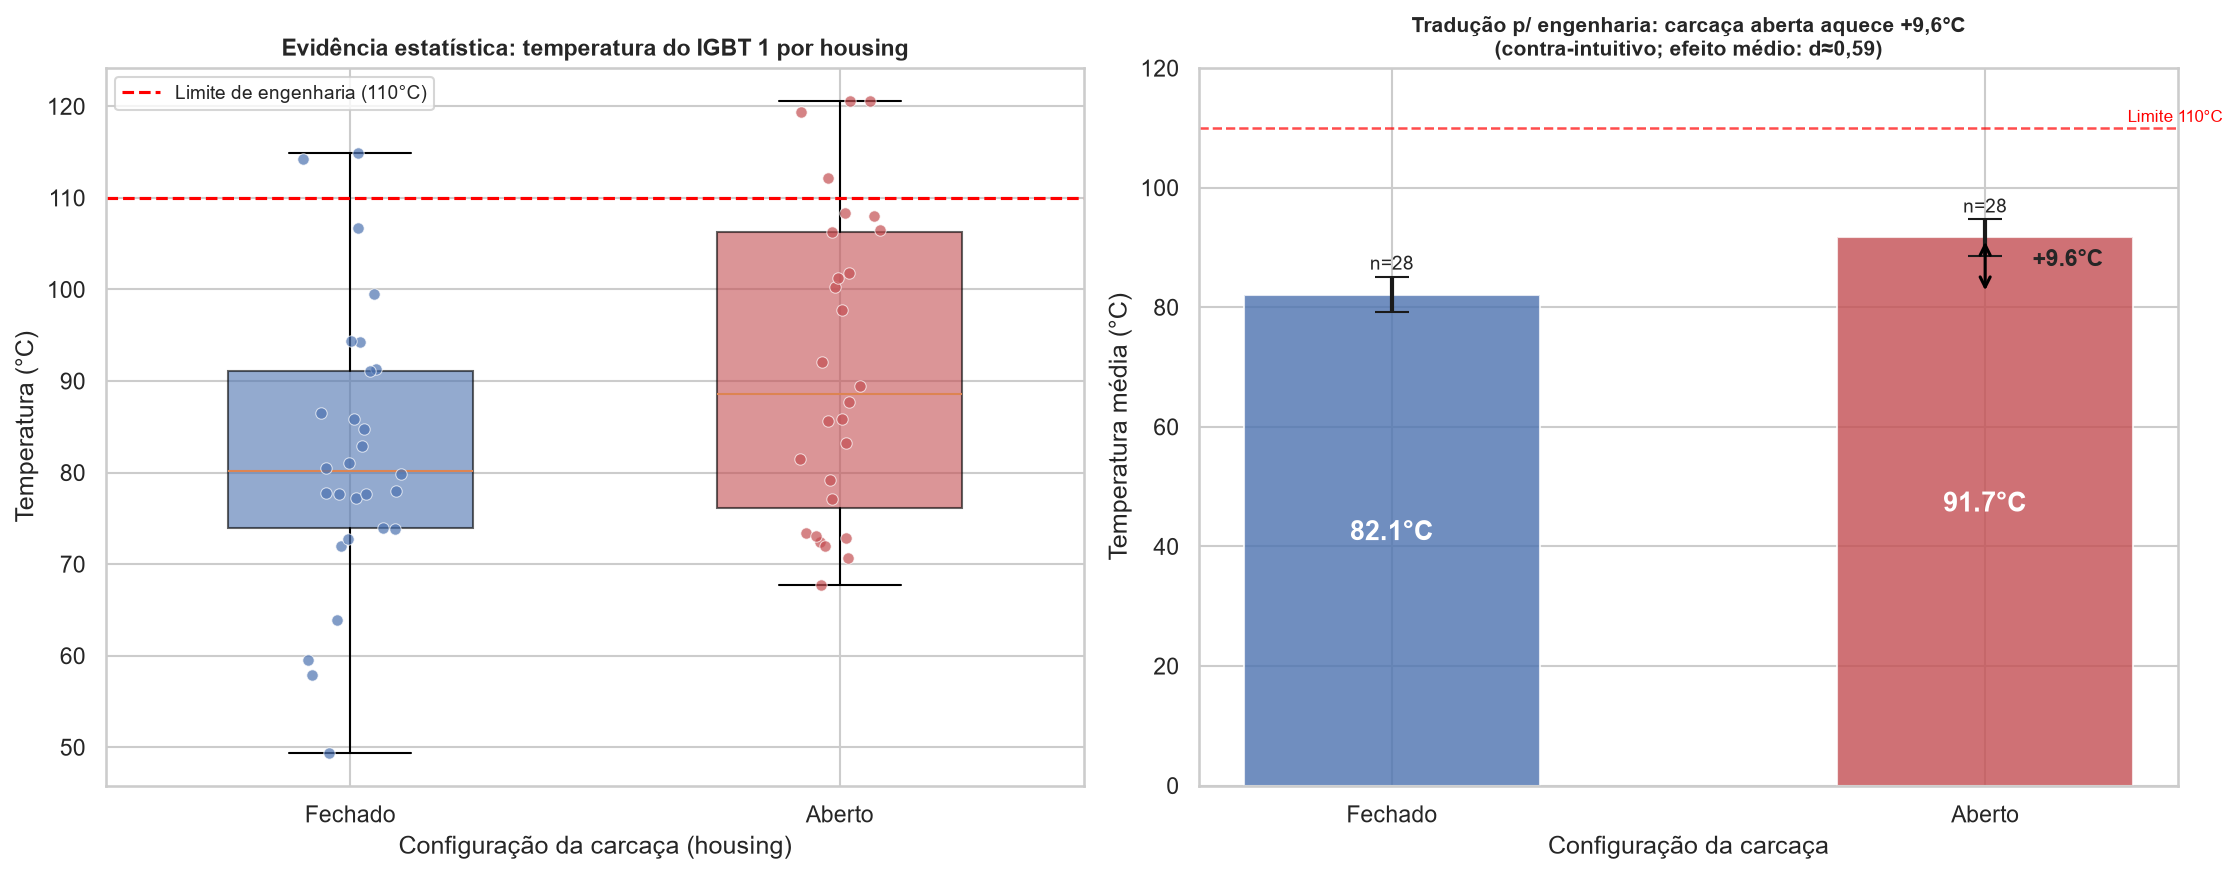
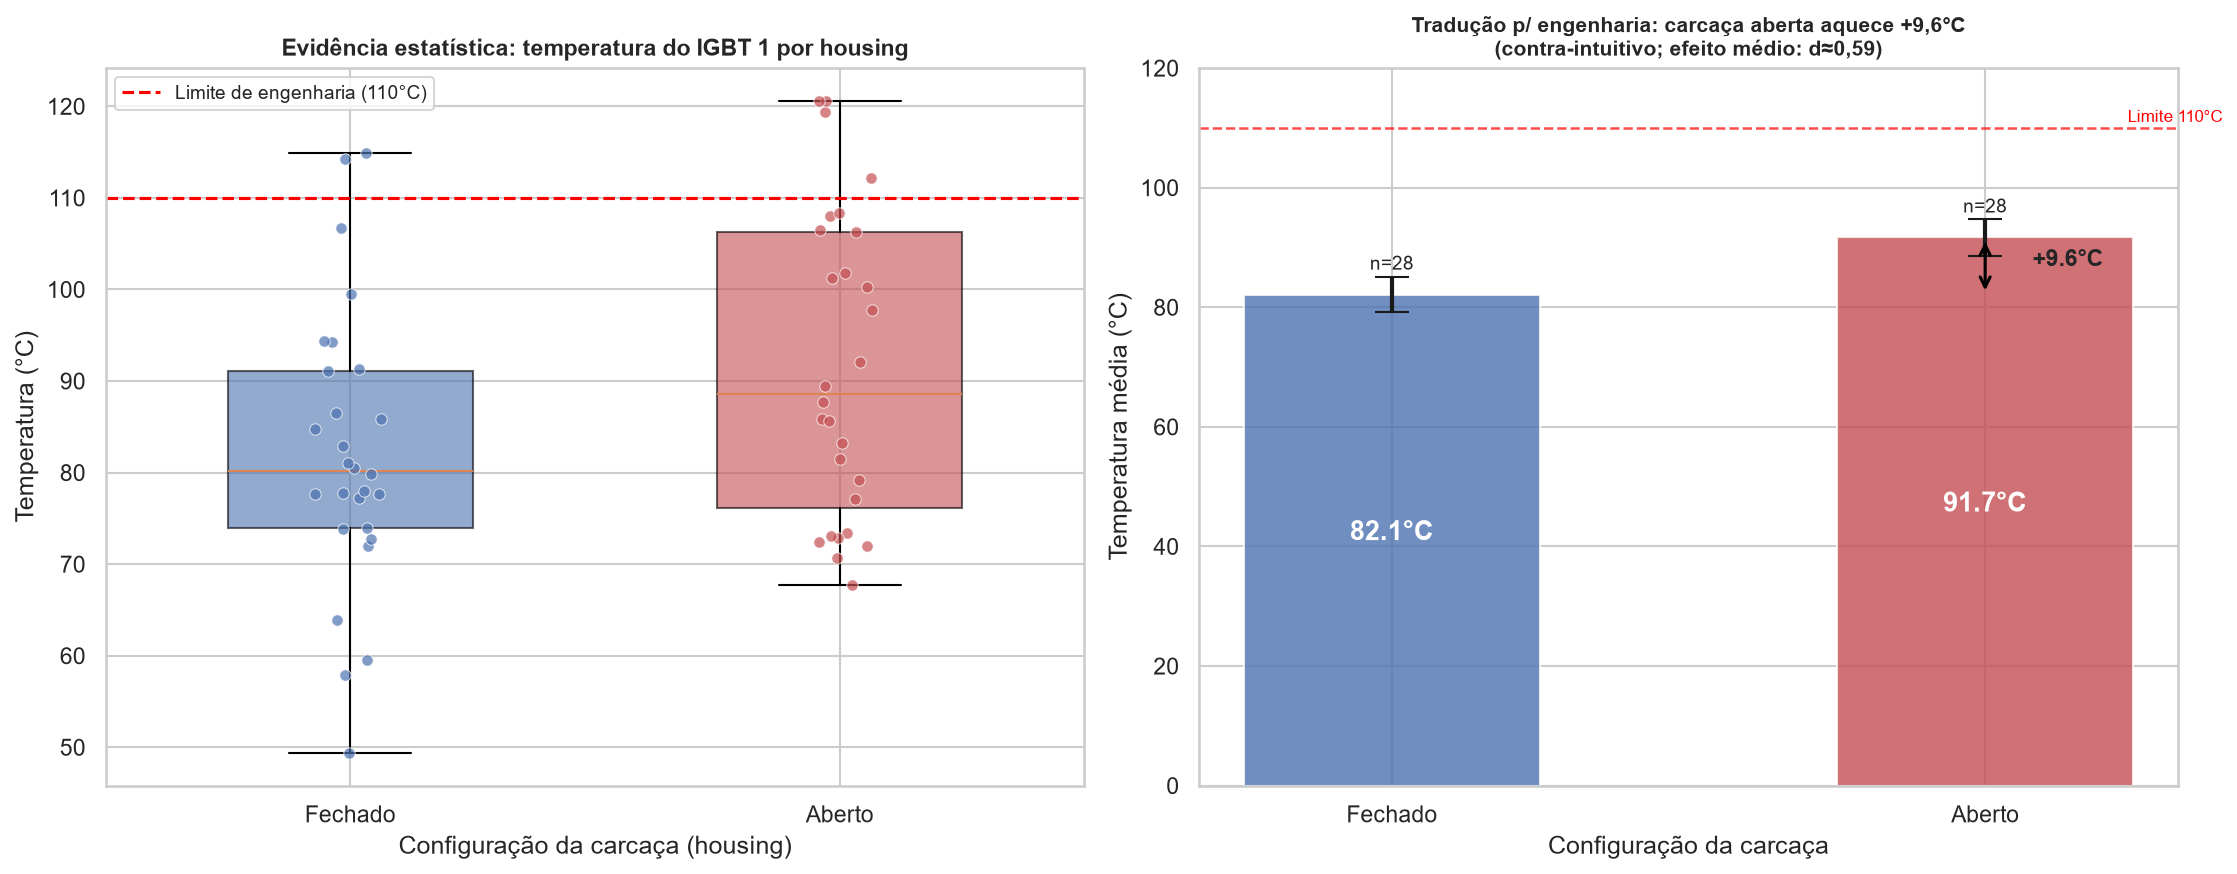
feat: (#042) adiciona media-mediana

diff --git a/documents/documentacao.md b/documents/documentacao.md
@@ -993,6 +993,22 @@ Há ainda um quinto elemento que os testes formais não separam, mas que o histo
 
 **Ressalva metodológica.** Com n = 4.065, o Shapiro-Wilk rejeita H₀ mesmo diante de desvios pequenos, de modo que um p-valor baixo, isoladamente, não prova que o afastamento seja grande. É justamente o histograma que resolve essa dúvida: o desvio aqui é estrutural e visível a olho nu (assimetria, cauda longa, piso físico e bimodalidade), não um artefato do tamanho da amostra. Visual e teste apontam na mesma direção — **`temp` não segue distribuição normal** —, e métodos que pressupõem normalidade ficam desaconselhados para essa variável em escala global.
 
+**e) Comparação entre a média e a mediana**
+
+Em uma distribuição normal, por ser simétrica, a média e a mediana coincidem. Quanto maior a distância entre as duas medidas, maior a assimetria da distribuição e mais forte o indício de afastamento da normalidade. A comparação abaixo funciona, portanto, como uma verificação independente do resultado dos testes formais do item c).
+
+O código usado para essa métrica, está no notebook em baixo da sessão da hipotese 4.
+
+| Variável | Média | Mediana | Diferença (Média − Mediana) |
+|:---|:---|:---|:---|
+| `temp` | 81,77 °C | 76,50 °C | +5,27 °C |
+
+A média fica 5,27 °C acima da mediana. Esse sinal, média maior que a mediana, é a assinatura de uma distribuição **assimétrica à direita**: os valores extremos elevados (a cauda que se estende até 273,60 °C, evidenciada no histograma do item d) puxam a média para cima, enquanto a mediana, por depender apenas da posição central dos dados, permanece resistente a esses extremos. Se a temperatura seguisse uma distribuição normal, as duas medidas seriam praticamente iguais.
+
+Os valores, portanto, **reforçam os resultados dos testes estatísticos de normalidade**: a diferença entre média e mediana é coerente com a assimetria positiva (coeficiente de +1,76) já apontada, e converge com a rejeição de H₀ pelos três testes do item c). Tanto a evidência formal quanto as medidas de tendência central levam à mesma conclusão: `temp` não segue uma distribuição normal.
+
+Embora a média ≈ mediana seja condição necessária para simetria, ela não bastaria sozinha para provar normalidade; no caso da temp, porém, a diferença é clara (+5,27 °C) e aponta na mesma direção dos testes formais.
+
 #### Escalonamento (Padronização ou normalização) nas variáveis quantitativas
 
 **a) Tipo de Escalonamento e Justificativa**
